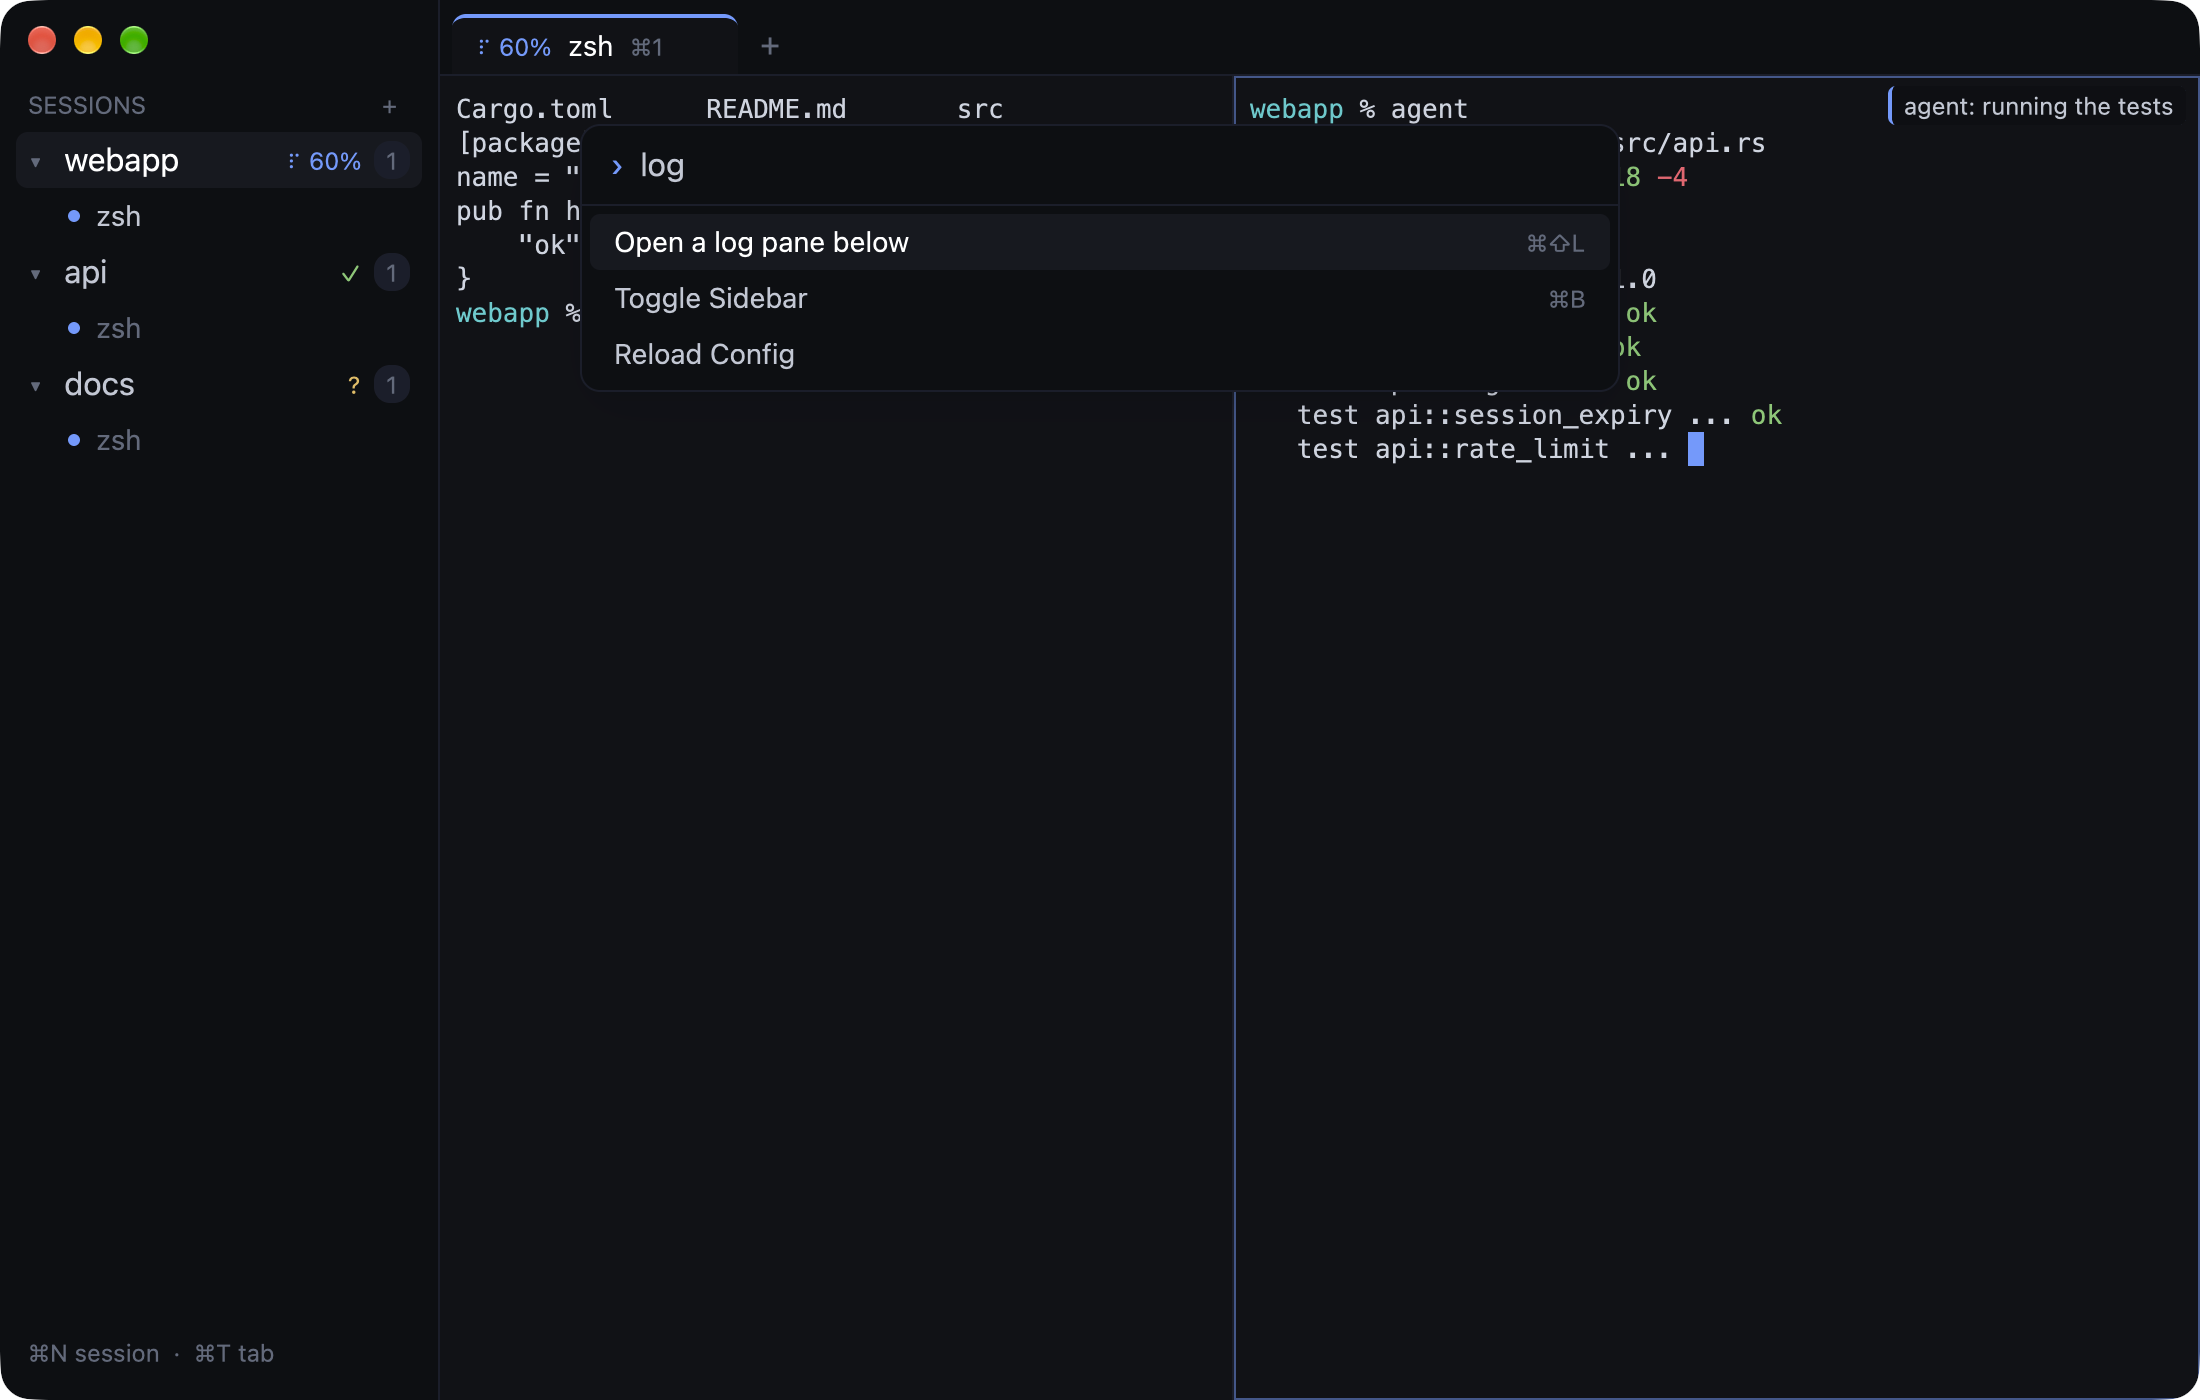
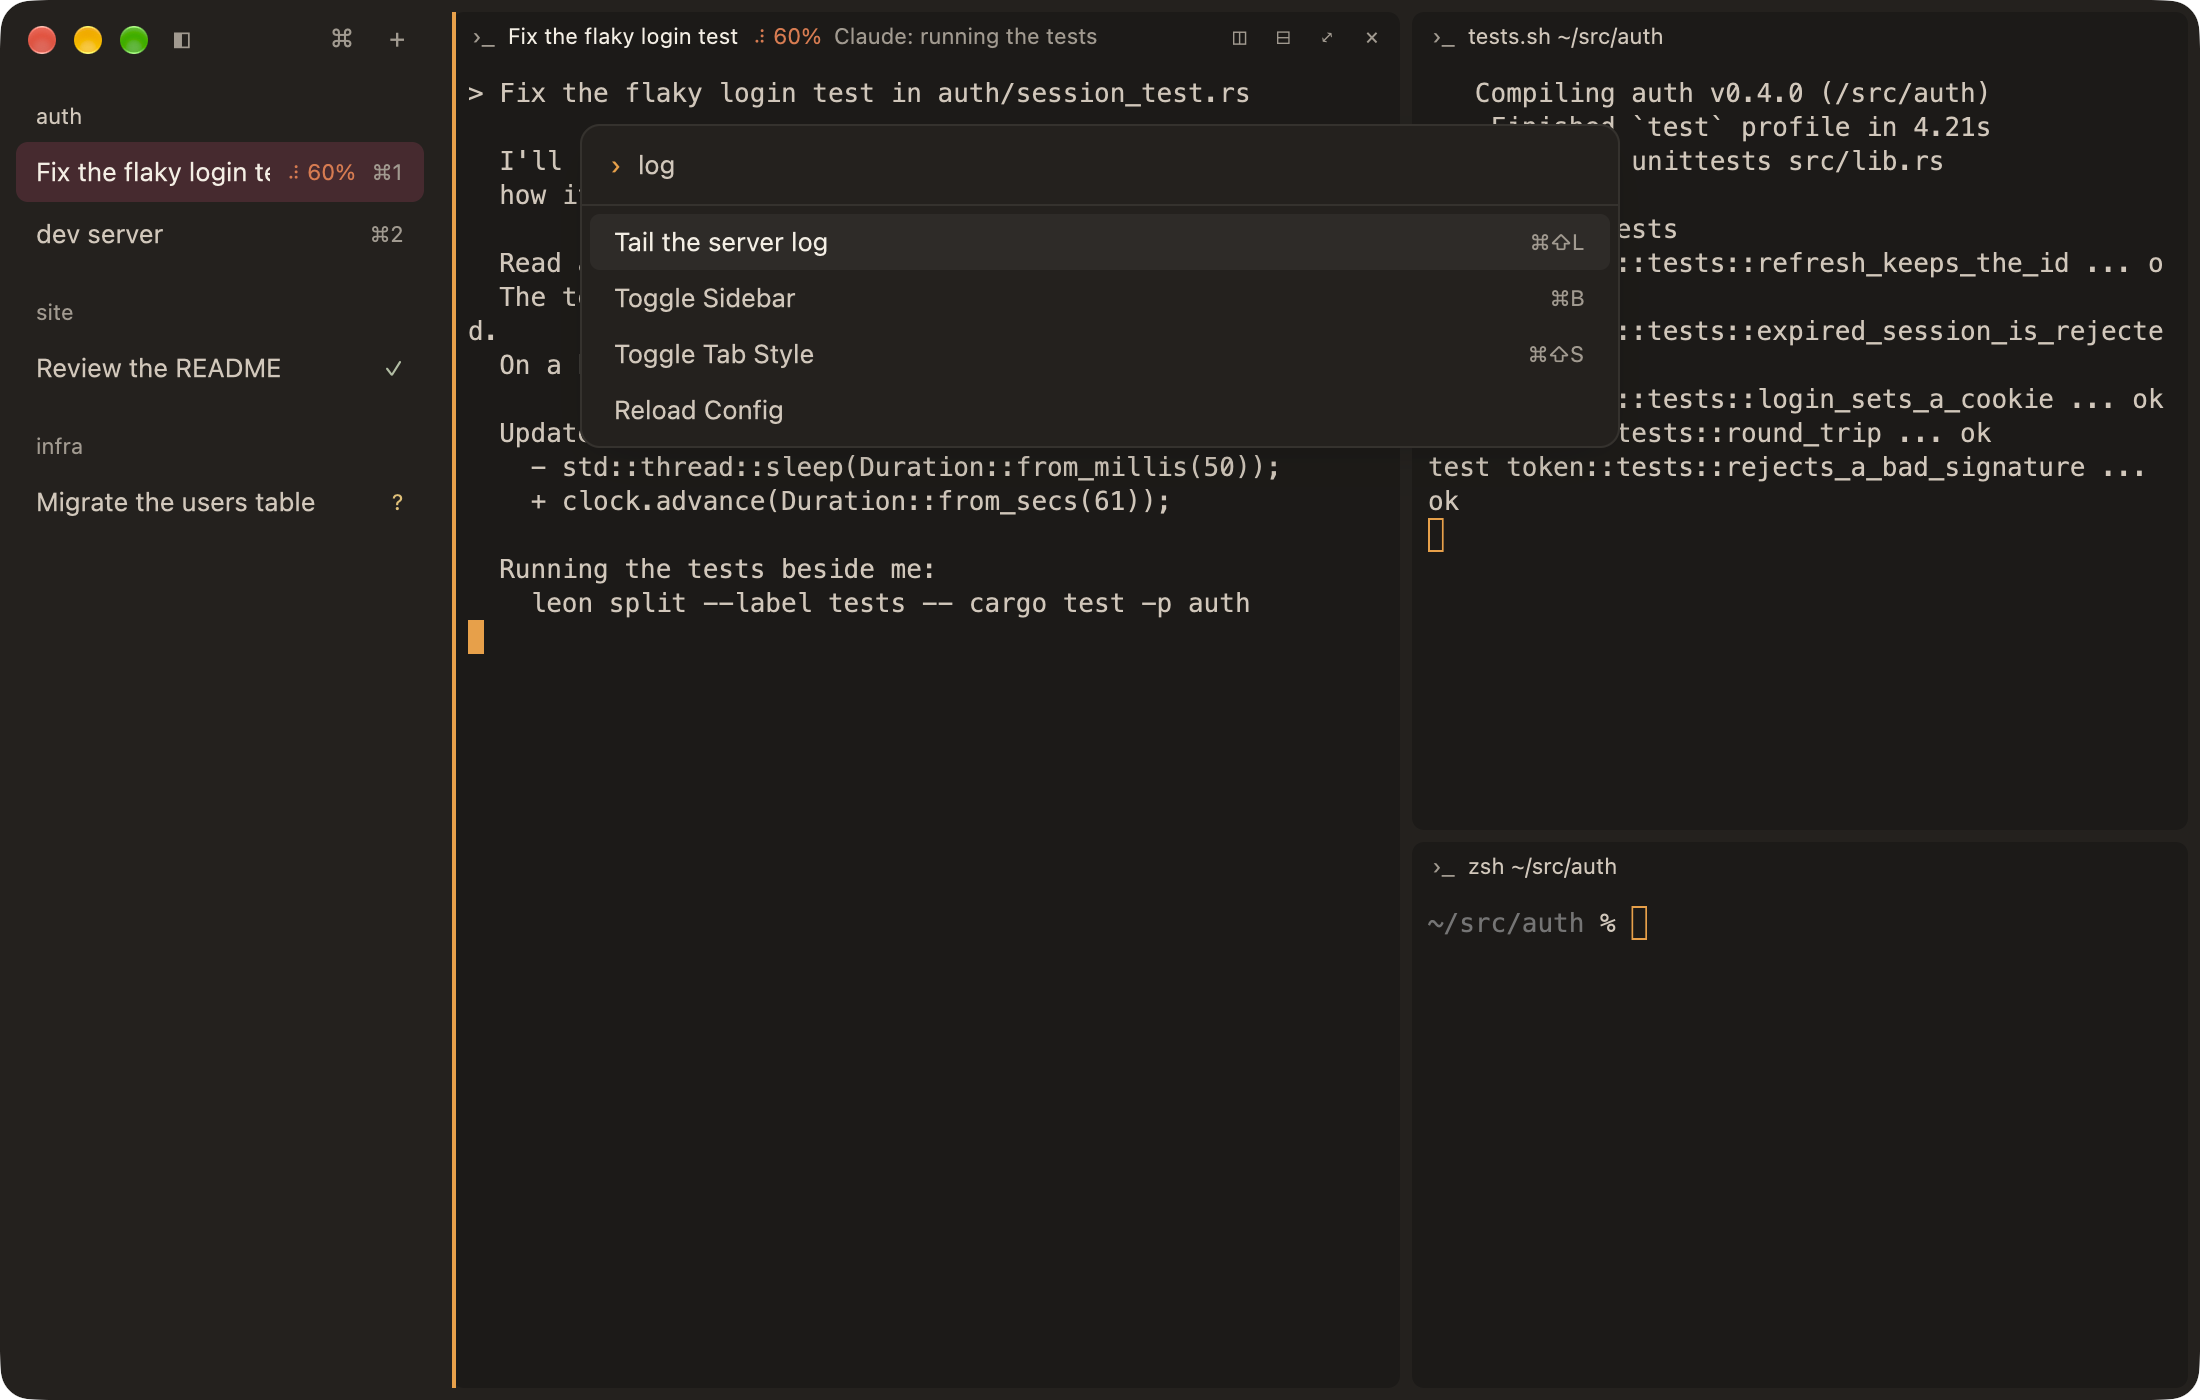
docs: new app screenshots (sidebar, palette, sequence, top tabs, empty state)
README describes tabs in one place, status once per place, pane headers
and the sidebar drag; architecture gains the app layout and settings
notes; the roadmap gains M10b. The empty state's hints size to their text.

diff --git a/crates/leon-app/src/view_header.rs b/crates/leon-app/src/view_header.rs
@@ -91,7 +91,7 @@ impl Workspace {
     pub(super) fn render_empty(&self, cx: &mut Context<Self>) -> impl IntoElement {
         let t = &DARK;
         let actions = ["session.new", "client.palette.toggle", ""];
-        let mut hints = div().flex().flex_col().gap(px(4.)).mt(px(18.)).w(px(380.));
+        let mut hints = div().flex().flex_col().gap(px(4.)).mt(px(18.));
         for (i, ((keys, what), action)) in self.empty_hints().into_iter().zip(actions).enumerate() {
             hints = hints.child(
                 div()

diff --git a/README.md b/README.md
@@ -16,10 +16,11 @@ Lua, or let your coding agent drive them for you. It's built in Rust, with GPUI 
   your tests there and read the results.
 - **Lua inside.** Key bindings, modes, your own actions, and scripts that react to events.
 
-![The leon app: sessions in the sidebar, a split window, and an agent's progress in its tab, its sidebar row and its pane](docs/images/app-status.png)
+![The leon app: three sessions in the sidebar with their tabs as rows, a tab split into three panes, and an agent's progress on its tab row and its pane header](docs/images/app-status.png)
 
-Programs report what they're doing (working, blocked, done) and the app shows it on the tab, the
-session's sidebar row and the pane. The command palette (⌘⇧P) runs any action, yours included:
+Programs report what they're doing (working, blocked, done) and the app shows it once in each
+place: a symbol on the tab's row, and the symbol with the program's own words in the pane's header.
+Tabs take the title the program set. The command palette (⌘⇧P) runs any action, yours included:
 
 ![The command palette, filtered to "log", listing a config action with its shortcut](docs/images/app-palette.png)
 
@@ -116,8 +117,19 @@ what it created. See [docs/agents.md](docs/agents.md).
 These are defaults: a `leon.bind` in your `init.lua` replaces one key by key, and `leon.unbind`
 removes one (⌘Q stays). Key sequences such as `ctrl+b>c` show a hint of what can follow.
 A pane whose program reports its status (OSC 7501, as agents do) shows a spinner, ⚠ / ? / ⚿ when
-it is blocked, ✓ when done or ✗ on an error, on its tab and its session in the sidebar; done and
-error clear when you go to the pane.
+it is blocked, ✓ when done or ✗ on an error, on its tab and in its pane header (a collapsed
+session's label shows its most urgent one); done and error clear when you go to the pane. Pane
+headers name the program and where it is, and hold split, zoom and close buttons; "Show or Hide
+Pane Headers" in the palette turns them off. Drag the sidebar's edge to resize it.
+
+Tabs live in one place. ⌘⇧S moves them from the sidebar to the titlebar, beside the session's name,
+and the sidebar then lists only sessions; the app remembers the choice:
+
+![Top tab style: the session's tabs in the titlebar row, the sidebar listing only sessions](docs/images/app-top.png)
+
+With no session open, the app says what to do next:
+
+![The empty state: leon's icon, the tagline, and the keys for a new session and the palette, plus leon skill setup](docs/images/app-empty.png)
 
 ## Script it in Lua
 

diff --git a/docs/architecture.md b/docs/architecture.md
@@ -97,6 +97,17 @@ agents) drive it through one self-describing API. `docs/spec.md` is the interfac
   server (`client.action` / `client.key`) without waiting. A pending sequence shows a hint and has
   no timeout; unbound keys go to the pane (`dev.leon.terminal.write`). Program status (OSC 7501)
   comes with the model copy; arriving at a pane clears its `done`/`error` (reason `seen`).
+- **App layout and look.** Tabs are drawn in one place (`leon_app::chrome::places`): as rows under
+  their session in the sidebar (the default), or with `client.tab_style.toggle` in the titlebar row
+  beside the session's name, the sidebar then listing sessions only. Panes are inset tiles
+  (`panes::tiles`) with a header each; the channel between two tiles is the divider a drag moves.
+  The tab style, pane headers and sidebar width are the app's own settings, saved to
+  `$LEON_STATE_DIR/app.json` (0600, via a temp file and a rename, only into a private dir; a missing
+  or bad file gives the defaults). Every colour comes from `leon_core::theme`, the brand palette
+  (brand/README.md): Coal panes on an Iron window, Amber focus, the Maroon tile for the selected
+  tab, Copper/Sage/Wheat/Rose for working/done/blocked/error. The server keeps each terminal's last
+  OSC 0/2 title, and `session.list_blocks` reports it with the block's cwd, so tabs and pane headers
+  name what the program set.
 - **Agent skill.** `leon skill show` prints a guide compiled into the binary. `skill setup` installs a
   SKILL.md stub (marked `<!-- leon-skill: … -->`) that tells the agent to run `leon skill show`, so
   upgrades reach agents without a reinstall, plus a matcher-less SessionStart hook running

diff --git a/docs/roadmap.md b/docs/roadmap.md
@@ -13,3 +13,4 @@ Each milestone is one run of the loop (plan, build test-first, verify, review), 
 | M7 | Agents and shipping | `leon skill setup/status/remove/show` for Claude Code and Codex, docs, a `.app` bundle and an install script. |
 | M8 | Persistence and speed | Save/restore sessions across server restarts; measured input latency and throughput, with a benchmark in the repo. |
 | M10 | The app attaches | Opening the app attaches to the running server (starting one if needed); quitting it leaves every program running; "Quit and End All Sessions…" or `leon server stop` ends them; screens are pushed over the socket within the latency budget in docs/performance.md. |
+| M10b | The UI pass | Tabs in one place (sidebar rows by default, the titlebar with `client.tab_style.toggle`, saved across launches); a quiet sidebar that resizes; leon's brand palette from one theme module; status once per place; pane headers with controls; inset pane tiles; one toolbar row; program-set titles; an empty state that teaches. |
